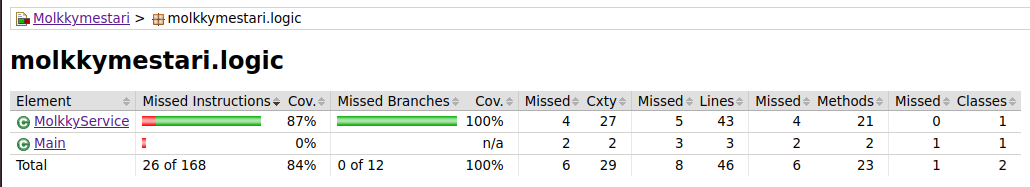
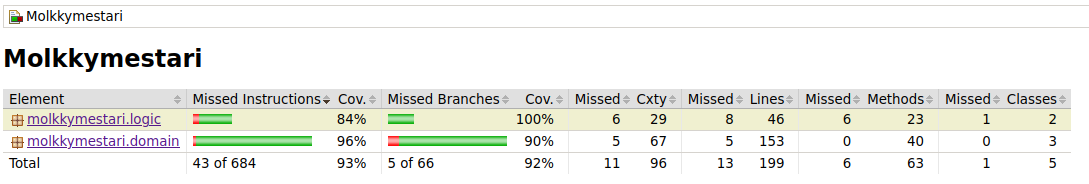
päivitykset testausdokumenttiin

diff --git a/dokumentaatio/testaus.md b/dokumentaatio/testaus.md
@@ -7,7 +7,7 @@ MolkkyService-luokan testit testaavat välillisesti myös muiden luokkien toimin
 
 ## Testauskattavuus
 
-Poislukien käyttöliittymäkerroksen, ohjelman testauksen rivikattavuus on 84% ja haaraumakattavuus 100%. Automaatiotestauksella on pyritty kattamaan kaikki ohjelman käyttämisen kannalta olennaiset toiminnallisuudet.
+Poislukien käyttöliittymäkerroksen, ohjelman testauksen rivikattavuus on 93% ja haaraumakattavuus 92%. Automaatiotestauksella on pyritty kattamaan kaikki ohjelman käyttämisen kannalta olennaiset toiminnallisuudet.
 <img src="https://github.com/palovpet/ot-harjoitustyo/blob/master/dokumentaatio/kuvat/testauskattavuus.png" width="700">
 
 ## Järjestelmätestaus
